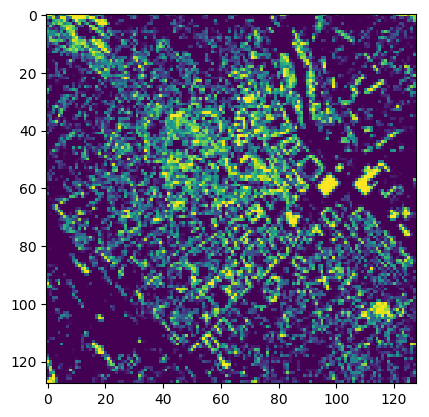
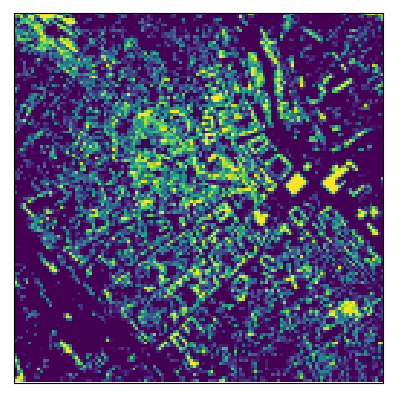
Fit mm and small cells separately

diff --git a/simulation/density_map.py b/simulation/density_map.py
@@ -20,6 +20,7 @@ class DensityMap:
             self.corners[2] - self.corners[0],
             self.corners[3] - self.corners[1]
         ))
+        self.area = self.size[0] * self.size[1]
 
         # Get obstacle mask
         img = np.zeros(self.original.shape)
@@ -96,8 +97,8 @@ class DensityMap:
         g = self.get_grid_coords(p)
         return self.density[g[0], g[1]]
     
-    # Plot coverage results with given mast positions
-    def plot_coverage(self, mast_ranges, p, figure=0):
+    # Get signal strength in grid points
+    def get_coverage(self, mast_ranges, p):
         coverage = np.zeros(self.density.shape)
         size = self.density.shape
 
@@ -113,6 +114,19 @@ class DensityMap:
                     ))
                 
                 coverage[int(x*size[0]), int(y*size[1])] = max(P_r)
+        
+        return coverage
+    
+    # Get covered area
+    def get_coverage_area(self, mast_ranges, p):
+        coverage = self.get_coverage(mast_ranges, p)
+        grid_coverage = (coverage > MIN_RECEIVED_INTENSITY).sum()
+
+        return grid_coverage / self.density.shape[0] / self.density.shape[1] * self.area
+    
+    # Plot coverage results with given mast positions
+    def plot_coverage(self, mast_ranges, p, figure=0):
+        coverage = self.get_coverage(mast_ranges, p)
 
         plt.title(str(coverage.sum()))
 
@@ -127,14 +141,27 @@ class DensityMap:
 
         plt.plot()
     
-    # Suggest number of mm-wave and small-cells for area size
+    # Get mean density
+    def get_mean_density(self):
+        return np.mean(self.density)
+    
+    # Suggest number of masts for area size
+    def get_suggested_mast_amount(self, mast_range, area):
+        #area = self.size[0] * self.size[1]
+        d_coeff = 1 + N_DENSITY_COEFFICIENT * self.get_mean_density()
+        n = ceil(area / (np.pi * mast_range**2) * d_coeff)
+
+        #n_mm_wave = ceil(area / (np.pi * MM_WAVE_RANGE**2) * d_coeff)
+        #n_small_cell = ceil(
+        #    (area - (n_mm_wave/d_coeff - 1) * np.pi * MM_WAVE_RANGE**2) /
+        #    (np.pi * SMALL_CELL_RANGE**2)
+        #)
+
+        return min(n, MAX_MASTS)
+
+    # Get suggested mast ranges
     def get_suggested_mast_ranges(self):
-        area = self.size[0] * self.size[1]
-        n_mm_wave = ceil(area / (np.pi * MM_WAVE_RANGE**2) * 1.25)
-        n_small_cell = ceil(
-            (area - (n_mm_wave/1.25 - 1) * np.pi * MM_WAVE_RANGE**2) /
-            (np.pi * SMALL_CELL_RANGE**2)
-        )
+        n_mm_wave, n_small_cell = self.get_suggested_mast_amounts()
 
         return [MM_WAVE_RANGE] * n_mm_wave + [SMALL_CELL_RANGE] * n_small_cell
 

diff --git a/simulation/main.py b/simulation/main.py
@@ -7,17 +7,78 @@ sys.path.append(os.getcwd())
 
 from simulation.optimizer import MastPositionOptimizer
 from simulation.density_map import DensityMap
+from simulation.parameters import *
 
 # Plot high resolution density
 density_map = DensityMap(sys.argv[1], (128, 128))
 
 plt.imshow(density_map.density)
-plt.savefig("web/figures/density.png", bbox_inches="tight", transparent=True)
+plt.tick_params(axis="both", which="both", bottom=False, top=False,
+    labelbottom=False, left=False, right=False, labelleft=False)
+plt.savefig(
+    "web/figures/density.png",
+    bbox_inches="tight",
+    transparent=True,
+    aspect=density_map.size[1]/density_map.size[0]
+)
 
 # Calculate lower resolution density and optimize mast positions
 density_map = DensityMap(sys.argv[1])
-mast_ranges = density_map.get_suggested_mast_ranges()
+
+# Save coverage plots
+def save_coverage_plots(mast_ranges, p):
+    coverage = density_map.get_coverage(mast_ranges, p)
+
+    plt.clf()
+    plt.imshow(coverage)
+    plt.tick_params(axis="both", which="both", bottom=False, top=False,
+        labelbottom=False, left=False, right=False, labelleft=False)
+    plt.savefig(
+        "web/figures/signal.png",
+        bbox_inches="tight",
+        transparent=True,
+        aspect=density_map.size[1]/density_map.size[0]
+    )
+
+    plt.clf()
+    covered = coverage > MIN_RECEIVED_INTENSITY
+    plt.imshow(covered)
+    plt.tick_params(axis="both", which="both", bottom=False, top=False,
+        labelbottom=False, left=False, right=False, labelleft=False)
+    plt.savefig(
+        "web/figures/coverage.png",
+        bbox_inches="tight",
+        transparent=True,
+        aspect=density_map.size[1]/density_map.size[0]
+    )
+
+# Place big masts
+n_mm_wave = density_map.get_suggested_mast_amount(
+    MM_WAVE_RANGE, density_map.area
+)
+
+mast_ranges = [MM_WAVE_RANGE] * n_mm_wave
 
 optimizer = MastPositionOptimizer(density_map, mast_ranges)
 
-optimizer.run(2, 10)
+for i in range(5):
+    pop, stats, hof = optimizer.run(10, 1)
+    mm_wave_p = list(hof[0])
+    save_coverage_plots(mast_ranges, mm_wave_p)
+
+# Place small masts
+covered_area = density_map.get_coverage_area(mast_ranges, mm_wave_p)
+
+n_small_cell = density_map.get_suggested_mast_amount(
+    SMALL_CELL_RANGE,
+    density_map.area - covered_area
+)
+
+mast_ranges = [MM_WAVE_RANGE] * n_mm_wave + [SMALL_CELL_RANGE] * n_small_cell
+optimizer = MastPositionOptimizer(density_map, mast_ranges, mm_wave_p)
+
+for i in range(5):
+    pop, stats, hof = optimizer.run(10, 1)
+    mast_p = mm_wave_p + list(hof[0])
+    save_coverage_plots(mast_ranges, mast_p)
+

diff --git a/simulation/test.py b/simulation/test.py
@@ -8,18 +8,42 @@ from simulation.density_map import DensityMap
 from simulation.parameters import *
 
 #%%
-density_map = DensityMap("658000,6473000,660000,6475000")
-plt.imshow(density_map.density)
+bbox_forest = "653840.2028413543,6475325.432370271,655077.7935806693,6476604.332011141"
+bbox_field = "652063.0487542147,6475264.017033348,652984.7924631344,6475956.906271896"
+bbox_town = "658000,6473000,660000,6475000"
 
-#%%
-mast_ranges = density_map.get_suggested_mast_ranges()
+density_map = DensityMap(bbox_town)
+plt.imshow(density_map.original, aspect=density_map.size[1]/density_map.size[0])
+
+n_mm_wave = density_map.get_suggested_mast_amount(MM_WAVE_RANGE, density_map.area)
+
+mast_ranges = [MM_WAVE_RANGE] * n_mm_wave
+n_mm_wave
 
 #%%
 optimizer = MastPositionOptimizer(density_map, mast_ranges)
 pop, stats, hof = optimizer.run(25, 5, True)
+mm_wave_p = list(hof[0])
+
+density_map.plot_coverage(mast_ranges, mm_wave_p)
 
 #%%
-density_map.plot_coverage(mast_ranges, list(hof[0]))
+covered_area = density_map.get_coverage_area(mast_ranges, mm_wave_p)
+
+n_small_cell = density_map.get_suggested_mast_amount(
+    SMALL_CELL_RANGE,
+    density_map.area - covered_area
+)
+
+n_small_cell
+
+#%%
+mast_ranges = [MM_WAVE_RANGE] * n_mm_wave + [SMALL_CELL_RANGE] * n_small_cell
+optimizer = MastPositionOptimizer(density_map, mast_ranges, mm_wave_p)
+pop, stats, hof = optimizer.run(25, 5, True)
+mast_p = mm_wave_p + list(hof[0])
+
+density_map.plot_coverage(mast_ranges, mast_p)
 
 #%%
 plt.imshow(density_map.original, alpha=0.8)
@@ -41,3 +65,7 @@ plt.scatter(
     c="red",
     marker="x"
 )
+
+#%%
+1 + np.mean(density_map.density) * 5
+

diff --git a/simulation/optimizer.py b/simulation/optimizer.py
@@ -14,14 +14,20 @@ creator.create("Individual", np.ndarray, fitness=creator.FitnessMax)
 
 
 class MastPositionOptimizer:
-    def __init__(self, density_map, mast_ranges):
+    def __init__(self, density_map, mast_ranges, fixed_p=[]):
         self.density_map = density_map
         self.mast_ranges = mast_ranges
+        self.fixed_p = fixed_p
 
         self.toolbox = base.Toolbox()
 
         self.toolbox.register("attr_pos", random.random)
-        self.toolbox.register("individual", tools.initRepeat, creator.Individual, self.toolbox.attr_pos, n=len(mast_ranges) * 2)
+        self.toolbox.register("individual",
+            tools.initRepeat,
+            creator.Individual,
+            self.toolbox.attr_pos,
+            n=len(mast_ranges) * 2 - len(fixed_p)
+        )
         self.toolbox.register("population", tools.initRepeat, list, self.toolbox.individual)
         
         self.toolbox.register("evaluate", self.evaluate)
@@ -32,6 +38,7 @@ class MastPositionOptimizer:
     def evaluate(self, p):
         coverage = 0
         size = self.density_map.density.shape
+        p = np.concatenate((self.fixed_p, p))
 
         for x in np.linspace(0, 1, size[0], False) + 1/size[0]/2:
             for y in np.linspace(0, 1, size[1], False) + 1/size[1]/2:
@@ -89,7 +96,7 @@ class MastPositionOptimizer:
                     halloffame=hof)
                 
                 if not verbose:
-                    p = list(hof[0])
+                    p = self.fixed_p + list(hof[0])
                     
                     print("[" + ", ".join([
                         "{ \"x\": %f, \"y\": %f, \"type\": \"%s\" }" % (

diff --git a/simulation/parameters.py b/simulation/parameters.py
@@ -2,3 +2,6 @@ MM_WAVE_RANGE = 500
 SMALL_CELL_RANGE = 100
 MIN_RECEIVED_INTENSITY = 0.36787944117 # 1/e
 ABSORPTION_COEFFICIENT = 3.15 / 20
+N_DENSITY_COEFFICIENT = 5
+
+MAX_MASTS = 25
